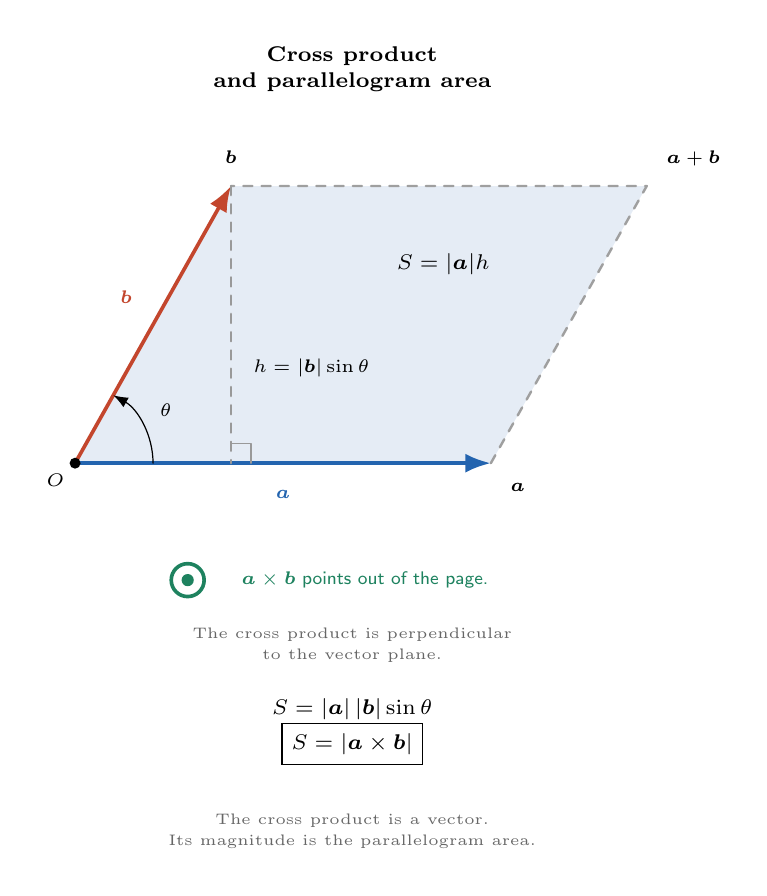
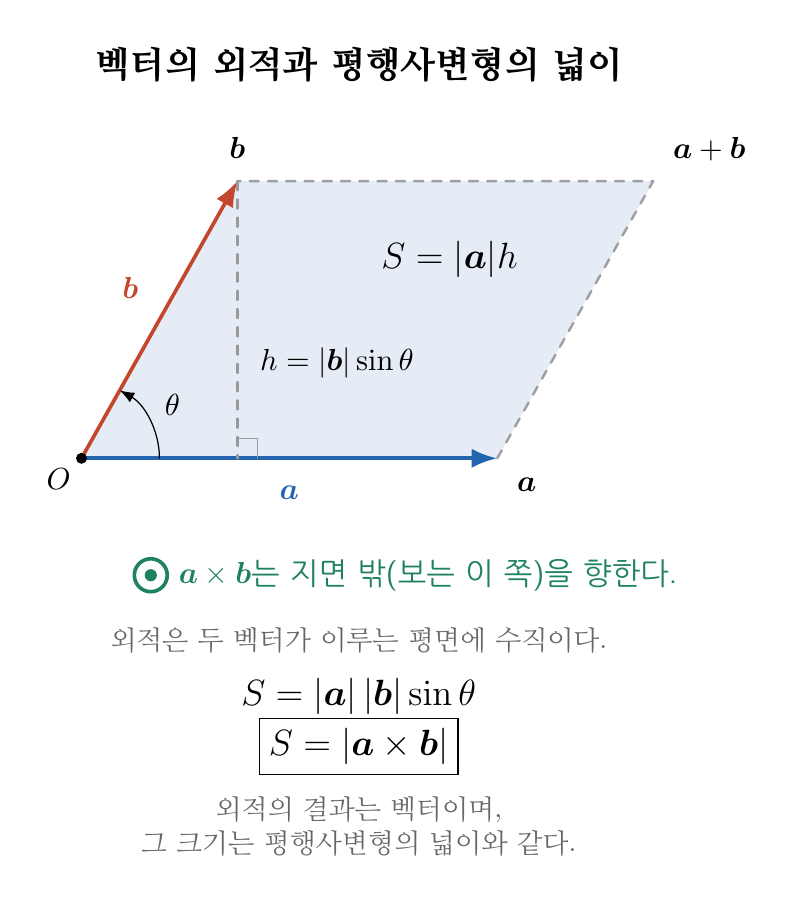
snapshot

diff --git a/assets/tikz/metal_plasticity/bunge_euler_angles.tex b/assets/tikz/metal_plasticity/bunge_euler_angles.tex
@@ -1,0 +1,65 @@
+\documentclass[tikz,border=9pt]{standalone}
+\usepackage{amsmath}
+\usetikzlibrary{arrows.meta}
+\definecolor{newframe}{RGB}{30,100,175}
+\definecolor{spin}{RGB}{190,65,30}
+\begin{document}
+\begin{tikzpicture}[>=Latex,font=\sffamily\small,line cap=round,line join=round]
+\node[font=\sffamily\bfseries\large] at (5.8,4.0) {Bunge Euler angles: successive rotations of the coordinate frame};
+\node[align=center] at (5.8,3.35) {Intrinsic $z$--$x^{\prime}$--$z^{\prime\prime}$ sequence; right-hand positive angles};
+\begin{scope}[shift={(0.0,0)}]
+\node[font=\sffamily\bfseries] at (0,2.8) {(a) First: $\varphi_1$ about $z$};
+\draw[->,gray!65,dashed] (0,0)--(1.67400,0.45000);
+\node[gray!75!black,fill=white,inner sep=1pt] at (2.00880,0.54000) {$x$};
+\draw[->,gray!65,dashed] (0,0)--(-1.11600,0.77400);
+\node[gray!75!black,fill=white,inner sep=1pt] at (-1.33920,0.92880) {$y$};
+\draw[->,newframe,very thick] (0,0)--(0.81239,0.90285);
+\node[newframe,fill=white,inner sep=1pt] at (0.98299,1.09245) {$x^{\prime}$};
+\draw[->,newframe,very thick] (0,0)--(-2.08260,0.41768);
+\node[newframe,fill=white,inner sep=1pt] at (-2.51995,0.50540) {$y^{\prime}$};
+\draw[->,spin,very thick] (0,0)--(0.00000,2.00000);
+\node[spin,fill=white,inner sep=1pt] at (0.00000,2.42000) {$z=z^{\prime}$};
+\draw[->,spin,thick] (0.97650,0.26250)--(0.96465,0.27057)--(0.95248,0.27855)--(0.94001,0.28644)--(0.92723,0.29424)--(0.91416,0.30195)--(0.90079,0.30955)--(0.88713,0.31706)--(0.87318,0.32447)--(0.85895,0.33177)--(0.84445,0.33896)--(0.82967,0.34604)--(0.81462,0.35301)--(0.79931,0.35987)--(0.78374,0.36661)--(0.76792,0.37324)--(0.75186,0.37974)--(0.73555,0.38612)--(0.71900,0.39237)--(0.70222,0.39850)--(0.68521,0.40450)--(0.66798,0.41037)--(0.65054,0.41611)--(0.63288,0.42171)--(0.61502,0.42718)--(0.59697,0.43251)--(0.57872,0.43770)--(0.56028,0.44275)--(0.54166,0.44765)--(0.52287,0.45241)--(0.50391,0.45703)--(0.48479,0.46150)--(0.46551,0.46581)--(0.44608,0.46998)--(0.42650,0.47400);
+\node[spin,fill=white,inner sep=1pt] at (0.95971,0.50379) {$\varphi_1$};
+\fill (0,0) circle (1.3pt);
+\node[align=center,text width=4.8cm] at (0,-2.05) {$\boldsymbol v^{(1)}=P_z(\varphi_1)\boldsymbol v$};
+\end{scope}
+\begin{scope}[shift={(5.8,0)}]
+\node[font=\sffamily\bfseries] at (0,2.8) {(b) Second: $\Phi$ about $x^{\prime}$};
+\draw[->,gray!65,dashed] (0,0)--(-1.87434,0.37591);
+\node[gray!75!black,fill=white,inner sep=1pt] at (-2.24921,0.45110) {$y^{\prime}$};
+\draw[->,gray!65,dashed] (0,0)--(0.00000,1.80000);
+\node[gray!75!black,fill=white,inner sep=1pt] at (0.00000,2.16000) {$z^{\prime}$};
+\draw[->,spin,very thick] (0,0)--(0.81239,0.90285);
+\node[spin,fill=white,inner sep=1pt] at (0.98299,1.09245) {$x^{\prime}=x^{\prime\prime}$};
+\draw[->,newframe,very thick] (0,0)--(-1.33867,1.80057);
+\node[newframe,fill=white,inner sep=1pt] at (-1.61979,2.17869) {$y^{\prime\prime}$};
+\draw[->,newframe,very thick] (0,0)--(1.59536,0.96561);
+\node[newframe,fill=white,inner sep=1pt] at (1.93039,1.16839) {$z^{\prime\prime}$};
+\draw[->,spin,thick] (-1.09337,0.21928)--(-1.09301,0.24616)--(-1.09193,0.27287)--(-1.09013,0.29940)--(-1.08761,0.32574)--(-1.08437,0.35186)--(-1.08043,0.37775)--(-1.07577,0.40339)--(-1.07040,0.42876)--(-1.06432,0.45386)--(-1.05755,0.47865)--(-1.05008,0.50313)--(-1.04191,0.52727)--(-1.03306,0.55107)--(-1.02353,0.57451)--(-1.01333,0.59757)--(-1.00246,0.62023)--(-0.99093,0.64249)--(-0.97874,0.66432)--(-0.96591,0.68571)--(-0.95244,0.70666)--(-0.93835,0.72713)--(-0.92364,0.74713)--(-0.90832,0.76664)--(-0.89240,0.78564)--(-0.87590,0.80412)--(-0.85881,0.82208)--(-0.84116,0.83949)--(-0.82296,0.85635)--(-0.80421,0.87265)--(-0.78494,0.88837)--(-0.76515,0.90350)--(-0.74485,0.91804)--(-0.72407,0.93198)--(-0.70280,0.94530);
+\node[spin,fill=white,inner sep=1pt] at (-1.29292,0.83829) {$\Phi$};
+\fill (0,0) circle (1.3pt);
+\node[align=center,text width=4.8cm] at (0,-2.05) {$\boldsymbol v^{(2)}=P_x(\Phi)\boldsymbol v^{(1)}$};
+\end{scope}
+\begin{scope}[shift={(11.6,0)}]
+\node[font=\sffamily\bfseries] at (0,2.8) {(c) Third: $\varphi_2$ about $z^{\prime\prime}$};
+\draw[->,gray!65,dashed] (0,0)--(0.73115,0.81257);
+\node[gray!75!black,fill=white,inner sep=1pt] at (0.87738,0.97508) {$x^{\prime\prime}$};
+\draw[->,gray!65,dashed] (0,0)--(-1.20480,1.62051);
+\node[gray!75!black,fill=white,inner sep=1pt] at (-1.44576,1.94462) {$y^{\prime\prime}$};
+\draw[->,newframe,very thick] (0,0)--(0.03421,1.68218);
+\node[newframe,fill=white,inner sep=1pt] at (0.04140,2.03543) {$\tilde x$};
+\draw[->,newframe,very thick] (0,0)--(-1.56552,1.10791);
+\node[newframe,fill=white,inner sep=1pt] at (-1.89427,1.34058) {$\tilde y$};
+\draw[->,spin,very thick] (0,0)--(1.59536,0.96561);
+\node[spin,fill=white,inner sep=1pt] at (1.93039,1.16839) {$z^{\prime\prime}=\tilde z$};
+\draw[->,spin,thick] (0.42650,0.47400)--(0.41563,0.48850)--(0.40466,0.50288)--(0.39359,0.51715)--(0.38243,0.53129)--(0.37118,0.54531)--(0.35984,0.55920)--(0.34841,0.57295)--(0.33690,0.58657)--(0.32532,0.60005)--(0.31365,0.61339)--(0.30191,0.62658)--(0.29010,0.63962)--(0.27822,0.65252)--(0.26628,0.66525)--(0.25427,0.67783)--(0.24220,0.69025)--(0.23007,0.70251)--(0.21789,0.71460)--(0.20566,0.72652)--(0.19338,0.73826)--(0.18105,0.74983)--(0.16868,0.76123)--(0.15627,0.77244)--(0.14382,0.78347)--(0.13134,0.79431)--(0.11883,0.80497)--(0.10629,0.81544)--(0.09372,0.82571)--(0.08113,0.83578)--(0.06852,0.84566)--(0.05590,0.85534)--(0.04326,0.86481)--(0.03062,0.87408)--(0.01796,0.88314);
+\node[spin,fill=white,inner sep=1pt] at (0.30019,0.91661) {$\varphi_2$};
+\fill (0,0) circle (1.3pt);
+\node[align=center,text width=4.8cm] at (0,-2.05) {$\tilde{\boldsymbol v}=P_z(\varphi_2)\boldsymbol v^{(2)}$};
+\end{scope}
+\node[align=center] at (5.8,-2.9) {Gray dashed: frame before each step \qquad Blue solid: frame after each step \qquad Orange: rotation axis / angle};
+\node[align=center] at (5.8,-3.6) {Passive component transformation: $\tilde{\boldsymbol v}=R\boldsymbol v$, \quad $R=P_z(\varphi_2)P_x(\Phi)P_z(\varphi_1)$, \quad $R_{ij}=\tilde{\boldsymbol e}_i\cdot\boldsymbol e_j$};
+\node[font=\sffamily\footnotesize,text=gray!80!black] at (5.8,-4.2) {Illustrated angles: $(35^\circ,50^\circ,30^\circ)$. The vector is fixed; its components change with the frame.};
+\end{tikzpicture}
+\end{document}

diff --git a/assets/tikz/data_mse/cross_product_area.tex b/assets/tikz/data_mse/cross_product_area.tex
@@ -12,7 +12,7 @@
 \coordinate (B) at (1.8,3.2);
 \coordinate (C) at (6.6,3.2);
 \coordinate (H) at (1.8,0);
-\node[font=\large\bfseries] [align=center] at (3.2,4.55) {벡터 외적와 평행사변형의 넓이};
+\node[font=\large\bfseries] [align=center] at (3.2,4.55) {벡터의 외적과 평행사변형의 넓이};
 \fill[avec!12] (O)--(A)--(C)--(B)--cycle;
 \draw[gray!75,dashed,thick] (A)--(C)--(B);
 \draw[avec,->,very thick] (O)--(A) node[midway,below=5pt] {$\boldsymbol a$};
@@ -27,13 +27,13 @@
 \node[above=4pt] at (B) {$\boldsymbol b$};
 \node[above right=3pt] at (C) {$\boldsymbol a+\boldsymbol b$};
 \node[below right=3pt] at (A) {$\boldsymbol a$};
-% For the displayed orientation a to b is counterclockwise: a x b points out.
+% 그림에서 a에서 b로의 회전은 반시계 방향이므로 외적은 지면 밖을 향한다.
 
 \draw[normal,very thick] (0.8,-1.35) circle (0.19);
 \fill[normal] (0.8,-1.35) circle (2pt);
-\node[normal,align=left,anchor=west] at (1.0,-1.35) {$\boldsymbol a\times\boldsymbol b$의 결과 벡터는 보는 이를 향함};
-\node[align=center,font=\small,text=gray!80!black] at (3.2,-2.1) {벡터 외적은 벡터 평면에 수직.};
+\node[normal,align=left,anchor=west] at (1.0,-1.35) {$\boldsymbol a\times\boldsymbol b$는 지면 밖(보는 이 쪽)을 향한다.};
+\node[align=center,font=\small,text=gray!80!black] at (3.2,-2.1) {외적은 두 벡터가 이루는 평면에 수직이다.};
 \node[font=\large,align=center] at (3.2,-3.1) {$S=|\boldsymbol a|\,|\boldsymbol b|\sin\theta$\\$\boxed{S=|\boldsymbol a\times\boldsymbol b|}$};
-\node[font=\small,align=center,text=gray!80!black] at (3.2,-4.25) {벡터 외적은 벡터이다.\\그 크기는 평행사변형의 넓이.};
+\node[font=\small,align=center,text=gray!80!black] at (3.2,-4.25) {외적의 결과는 벡터이며,\\그 크기는 평행사변형의 넓이와 같다.};
 \end{tikzpicture}
 \end{document}
